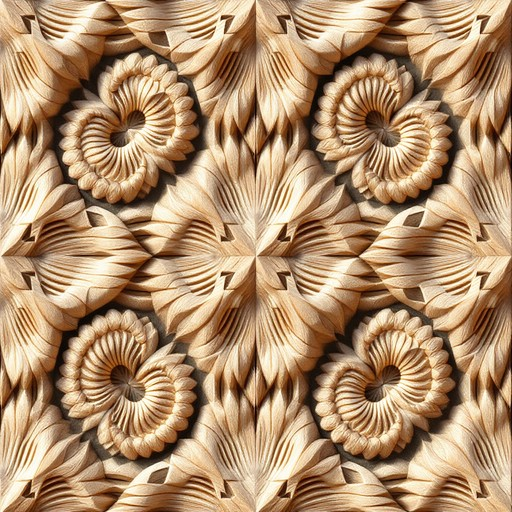
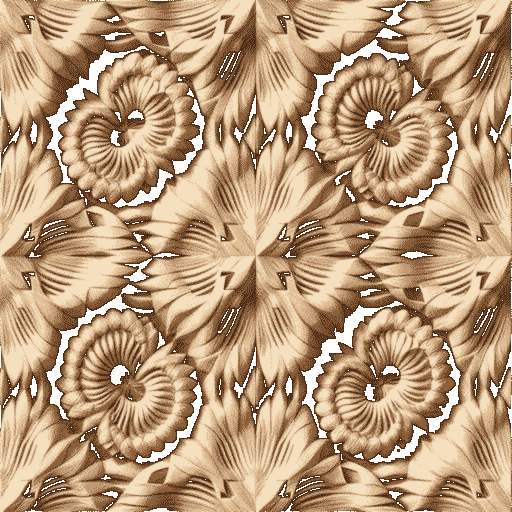
maori

Changed region(s): [[0.0, 0.0, 1.0, 1.0], [0.0, 0.5625, 0.0312, 0.5938]]

diff --git a/index.html b/index.html
@@ -11,13 +11,12 @@
       width: 100vw;
       min-height: 100vh;
       background-color: #f7f3ed;
-      background-image: url("Maori.png");
+      background-image: url("maori.png");
       background-repeat: repeat;
-      background-size: 33vw auto;
+      background-size: 7vw auto;
       overflow-x: hidden;
     }
 
-    /* Jedes Element auf der Seite */
     .element {
       position: absolute;
       cursor: grab;
@@ -32,24 +31,35 @@
   </style>
 </head>
 <body>
-    <a class="element" href="#" style="left:200px; top:150px; width:120px;">
-        <img src="bilder/trainer115.png" alt=""/>
-      </a>
-  <!-- HIER kommen später deine Bilder rein -->
-  <!-- Beispiel: -->
+
+  <!-- OHNE Sound -->
+  <a class="element" href="#" style="left:200px; top:150px; width:120px;">
+        data-sound="sound/cynthia_encounter.mp3"
+    <img src="bilder/trainer115.png" alt=""/>
+  </a>
+
+  <!-- MIT Sound — data-sound="pfad/zur/audiodatei.mp3" -->
   <!--
-  <a class="element" href="https://..." style="left:100px; top:80px; width:200px;">
+  <a class="element" href="#" style="left:400px; top:200px; width:150px;"
+     data-sound="bilder/mein-sound.mp3">
     <img src="bilder/mein-bild.png" alt=""/>
   </a>
   -->
 
   <script>
-    // Macht alle .element Divs verschiebbar
     document.querySelectorAll('.element').forEach(el => {
       let dragging = false, ox = 0, oy = 0, moved = false;
 
+      // Sound setup — nur wenn data-sound vorhanden
+      let audio = null;
+      if (el.dataset.sound) {
+        audio = new Audio(el.dataset.sound);
+        audio.loop = true; // läuft durch solange gezogen wird
+      }
+
       el.addEventListener('mousedown', e => {
-        dragging = true; moved = false;
+        dragging = true;
+        moved = false;
         ox = e.clientX - el.offsetLeft;
         oy = e.clientY - el.offsetTop;
         el.style.zIndex = 1000;
@@ -61,19 +71,29 @@
         moved = true;
         el.style.left = (e.clientX - ox) + 'px';
         el.style.top  = (e.clientY - oy) + 'px';
+
+        // Sound starten sobald man wirklich zieht
+        if (audio && audio.paused) audio.play();
       });
 
-      document.addEventListener('mouseup', e => {
-        if (dragging && !moved) return; // war ein Klick → Link öffnen
+      document.addEventListener('mouseup', () => {
+        if (!dragging) return;
         dragging = false;
         el.style.zIndex = '';
+
+        // Sound stoppen wenn losgelassen
+        if (audio) {
+          audio.pause();
+          audio.currentTime = 0;
+        }
       });
 
-      // Link nur öffnen wenn nicht gezogen wurde
+      // Link nur öffnen wenn nicht gezogen
       el.addEventListener('click', e => {
         if (moved) e.preventDefault();
       });
     });
   </script>
+
 </body>
 </html>
